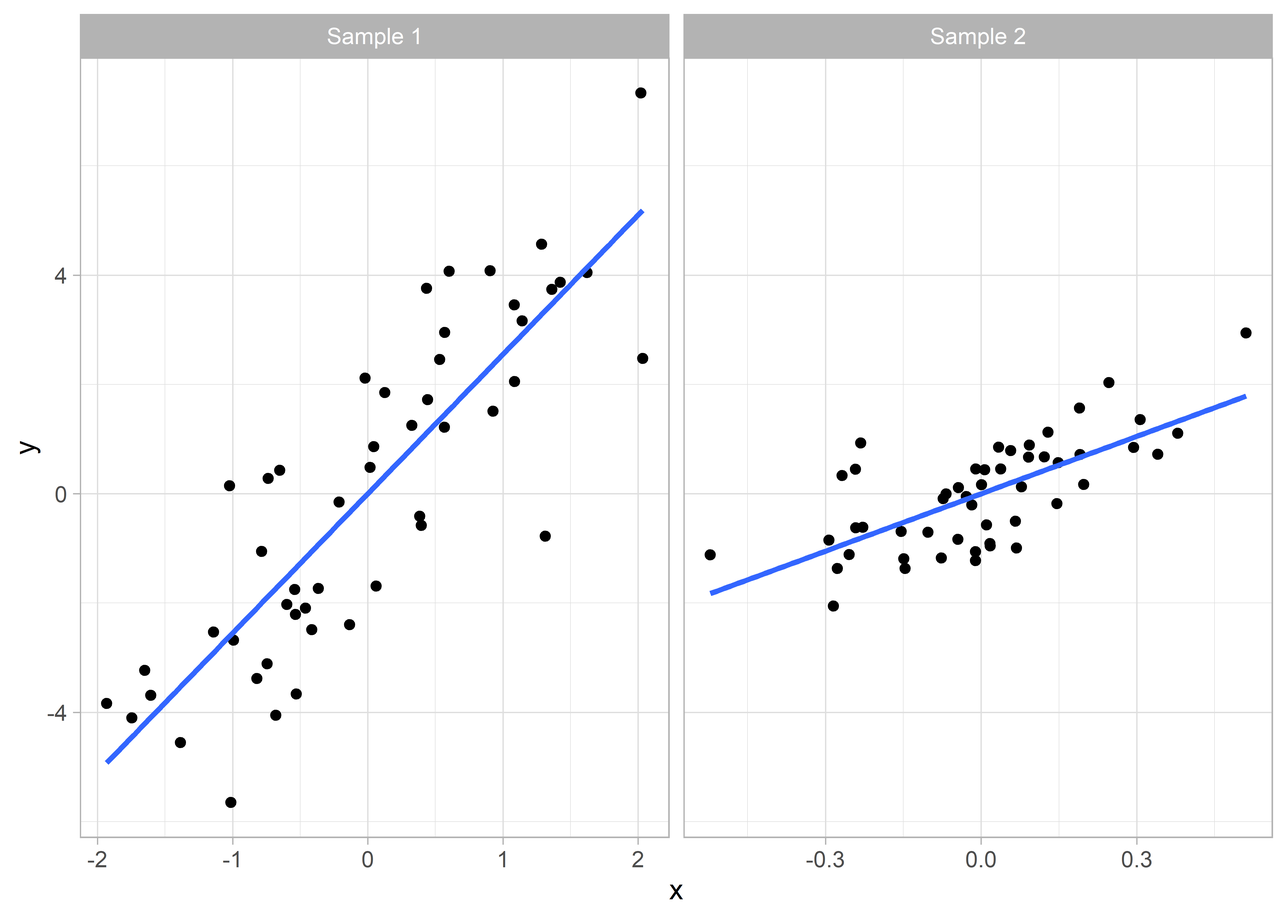
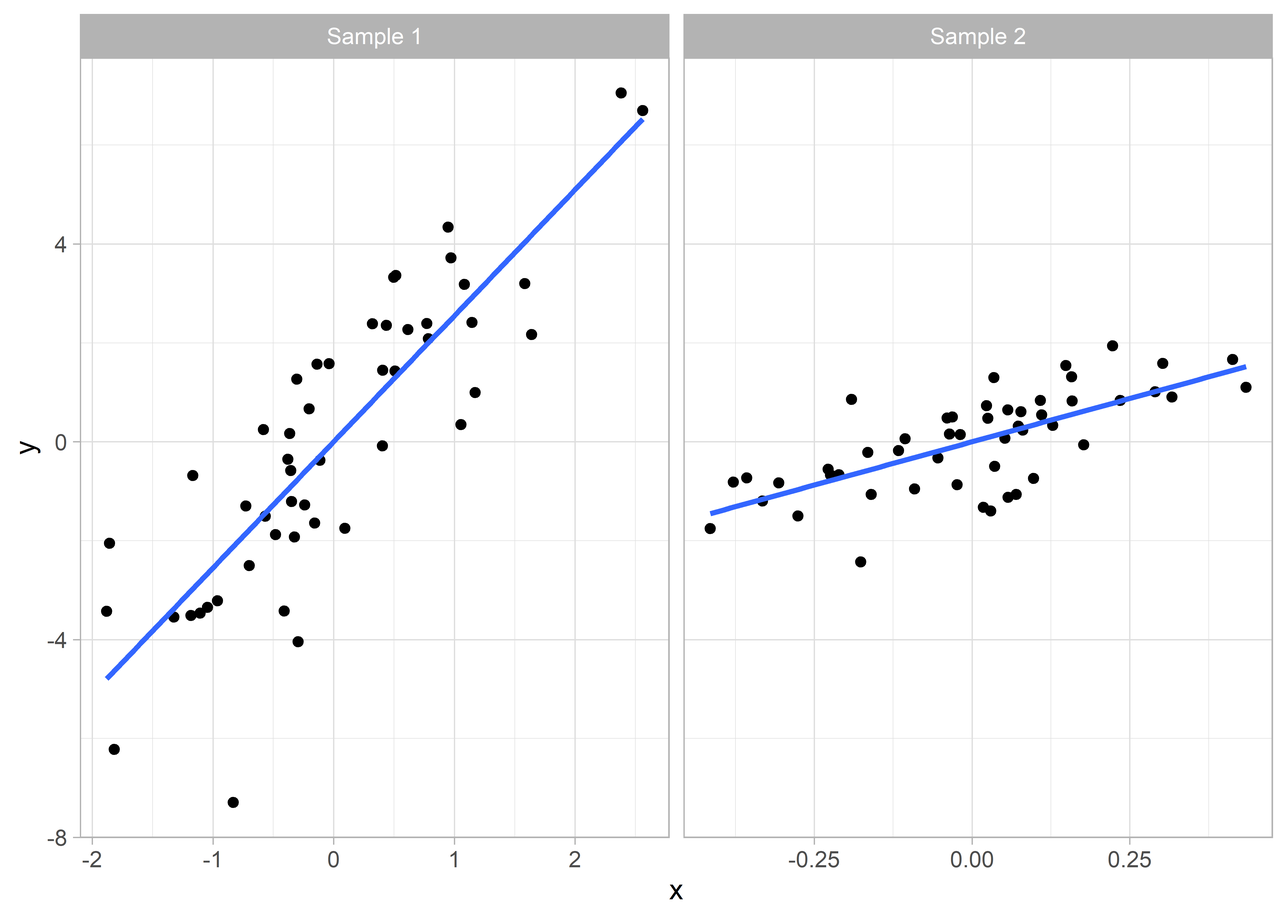
Hide unimportant messages in correlation

diff --git a/docs/korrelation.html b/docs/korrelation.html
@@ -601,10 +601,11 @@ div.tocify {
 <span id="cb4-2"><a href="#cb4-2"></a><span class="st">  </span><span class="kw">select</span>(temperature, swimmers) <span class="op">%&gt;%</span><span class="st"> </span></span>
 <span id="cb4-3"><a href="#cb4-3"></a><span class="st">  </span><span class="kw">get_summary_stats</span>()</span></code></pre></div>
 <pre><code>## # A tibble: 2 x 13
-##   variable        n   min   max median    q1    q3   iqr   mad  mean    sd    se    ci
-##   &lt;chr&gt;       &lt;dbl&gt; &lt;dbl&gt; &lt;dbl&gt;  &lt;dbl&gt; &lt;dbl&gt; &lt;dbl&gt; &lt;dbl&gt; &lt;dbl&gt; &lt;dbl&gt; &lt;dbl&gt; &lt;dbl&gt; &lt;dbl&gt;
-## 1 swimmers      100  34   195     97    82   121   39    28.2  100.  30.0   3.00  5.95
-## 2 temperature   100  11.9  45.6   25.1  21.0  28.9  7.98  6.00  25.0  6.00  0.6   1.19</code></pre>
+##   variable     n   min   max median    q1    q3   iqr   mad  mean    sd    se
+##   &lt;chr&gt;    &lt;dbl&gt; &lt;dbl&gt; &lt;dbl&gt;  &lt;dbl&gt; &lt;dbl&gt; &lt;dbl&gt; &lt;dbl&gt; &lt;dbl&gt; &lt;dbl&gt; &lt;dbl&gt; &lt;dbl&gt;
+## 1 swimmers   100  34   195     97    82   121   39    28.2  100.  30.0   3.00
+## 2 tempera~   100  11.9  45.6   25.1  21.0  28.9  7.98  6.00  25.0  6.00  0.6 
+## # ... with 1 more variable: ci &lt;dbl&gt;</code></pre>
 <p><img src="korrelation_files/figure-html/unnamed-chunk-6-1.png" width="2450" style="display: block; margin: auto;" /></p>
 <p>Eine weitere gute Idee wäre, sich einen vermuteten Zusammenhang graphisch als Streudiagramm darstellen zu lassen. Hier finden wir einen guten linearen Zusammenhang, der genau das nahelegt: Je höher die Temperatur (je weiter man auf der <span class="math inline">\(x\)</span>-Achse nach rechts geht), desto mehr Schwimmer wurden beobachtet (desto höher liegen die Punkte).</p>
 <div class="sourceCode" id="cb6"><pre class="sourceCode r"><code class="sourceCode r"><span id="cb6-1"><a href="#cb6-1"></a>water_park <span class="op">%&gt;%</span><span class="st"> </span></span>
@@ -688,44 +689,10 @@ div.tocify {
 <div id="stärke-eines-zusammenhangs" class="section level2">
 <h2>Stärke eines Zusammenhangs</h2>
 <p>Sehr viele Leute, wenn nicht alle, verwechseln regelmäßig die <em>Stärke</em> eines Zusammenhangs mit der <em>Größe</em> eines Zusammenhangs. Man kann schnell für sich testen, ob man denselben Fehler machen würde. Betrachten wir die beiden folgenden Abbildungen: In welcher ist die Korrelation größer?</p>
-<div class="sourceCode" id="cb17"><pre class="sourceCode r"><code class="sourceCode r"><span id="cb17-1"><a href="#cb17-1"></a>sample_<span class="dv">1</span> &lt;-<span class="st"> </span>MASS<span class="op">::</span><span class="kw">mvrnorm</span>(<span class="dv">50</span>, <span class="dt">mu =</span> <span class="kw">c</span>(<span class="dv">0</span>,<span class="dv">0</span>), <span class="dt">Sigma =</span> <span class="kw">matrix</span>(<span class="kw">c</span>(<span class="dv">1</span>,<span class="fl">0.85</span>,<span class="fl">0.85</span>,<span class="dv">1</span>), <span class="dt">ncol =</span> <span class="dv">2</span>), <span class="dt">empirical =</span> <span class="ot">TRUE</span>) <span class="op">%&gt;%</span><span class="st"> </span></span>
-<span id="cb17-2"><a href="#cb17-2"></a><span class="st">  </span><span class="kw">as_tibble</span>(<span class="dt">.name_repair =</span> <span class="st">&quot;unique&quot;</span>) <span class="op">%&gt;%</span><span class="st"> </span></span>
-<span id="cb17-3"><a href="#cb17-3"></a><span class="st">  </span><span class="kw">rename</span>(<span class="dt">x =</span> <span class="st">&quot;...1&quot;</span>, <span class="dt">y =</span> <span class="st">&quot;...2&quot;</span>) <span class="op">%&gt;%</span><span class="st"> </span></span>
-<span id="cb17-4"><a href="#cb17-4"></a><span class="st">  </span><span class="kw">mutate</span>(<span class="dt">sample =</span> <span class="st">&quot;sample_1&quot;</span>,</span>
-<span id="cb17-5"><a href="#cb17-5"></a>         <span class="dt">y =</span> y <span class="op">*</span><span class="st"> </span><span class="dv">3</span>)</span></code></pre></div>
-<pre><code>## New names:
-## * `` -&gt; ...1
-## * `` -&gt; ...2</code></pre>
-<div class="sourceCode" id="cb19"><pre class="sourceCode r"><code class="sourceCode r"><span id="cb19-1"><a href="#cb19-1"></a>sample_<span class="dv">2</span> &lt;-<span class="st"> </span>MASS<span class="op">::</span><span class="kw">mvrnorm</span>(<span class="dv">50</span>, <span class="dt">mu =</span> <span class="kw">c</span>(<span class="dv">0</span>,<span class="dv">0</span>), <span class="dt">Sigma =</span> <span class="kw">matrix</span>(<span class="kw">c</span>(<span class="dv">1</span>,<span class="fl">0.70</span>,<span class="fl">0.70</span>,<span class="dv">1</span>), <span class="dt">ncol =</span> <span class="dv">2</span>), <span class="dt">empirical =</span> <span class="ot">TRUE</span>) <span class="op">%&gt;%</span><span class="st"> </span></span>
-<span id="cb19-2"><a href="#cb19-2"></a><span class="st">  </span><span class="kw">as_tibble</span>(<span class="dt">.name_repair =</span> <span class="st">&quot;unique&quot;</span>) <span class="op">%&gt;%</span><span class="st"> </span></span>
-<span id="cb19-3"><a href="#cb19-3"></a><span class="st">  </span><span class="kw">rename</span>(<span class="dt">x =</span> <span class="st">&quot;...1&quot;</span>, <span class="dt">y =</span> <span class="st">&quot;...2&quot;</span>) <span class="op">%&gt;%</span><span class="st"> </span></span>
-<span id="cb19-4"><a href="#cb19-4"></a><span class="st">  </span><span class="kw">mutate</span>(<span class="dt">sample =</span> <span class="st">&quot;sample_2&quot;</span>,</span>
-<span id="cb19-5"><a href="#cb19-5"></a>         <span class="dt">x =</span> x <span class="op">*</span><span class="st"> </span><span class="fl">0.2</span>)</span></code></pre></div>
-<pre><code>## New names:
-## * `` -&gt; ...1
-## * `` -&gt; ...2</code></pre>
-<div class="sourceCode" id="cb21"><pre class="sourceCode r"><code class="sourceCode r"><span id="cb21-1"><a href="#cb21-1"></a><span class="kw">bind_rows</span>(sample_<span class="dv">1</span>, sample_<span class="dv">2</span>) <span class="op">%&gt;%</span><span class="st"> </span></span>
-<span id="cb21-2"><a href="#cb21-2"></a><span class="st">  </span><span class="kw">mutate</span>(<span class="dt">sample =</span> <span class="kw">str_to_title</span>(sample), <span class="dt">sample =</span> <span class="kw">str_replace</span>(sample, <span class="dt">pattern =</span> <span class="st">&quot;_&quot;</span>, <span class="dt">replacement =</span> <span class="st">&quot; &quot;</span>)) <span class="op">%&gt;%</span><span class="st"> </span></span>
-<span id="cb21-3"><a href="#cb21-3"></a><span class="st">  </span><span class="kw">ggplot</span>(<span class="kw">aes</span>(x, y)) <span class="op">+</span></span>
-<span id="cb21-4"><a href="#cb21-4"></a><span class="st">  </span><span class="kw">geom_point</span>() <span class="op">+</span></span>
-<span id="cb21-5"><a href="#cb21-5"></a><span class="st">  </span><span class="kw">geom_smooth</span>(<span class="dt">method =</span> <span class="st">&quot;lm&quot;</span>, <span class="dt">se =</span> <span class="ot">FALSE</span>) <span class="op">+</span></span>
-<span id="cb21-6"><a href="#cb21-6"></a><span class="st">  </span><span class="kw">facet_wrap</span>(<span class="op">~</span><span class="st"> </span>sample, <span class="dt">scales =</span> <span class="st">&quot;free_x&quot;</span>)</span></code></pre></div>
-<pre><code>## `geom_smooth()` using formula &#39;y ~ x&#39;</code></pre>
 <p><img src="korrelation_files/figure-html/unnamed-chunk-11-1.png" width="2450" style="display: block; margin: auto;" /></p>
 <p>Wer sich für die linke Seite entschieden hat, ist nicht alleine und liegt gleichzeitig gnadenlos daneben. Die Korrelation ist rechts (<span class="math inline">\(r = .850\)</span>) nämlich deutlich höher als links (<span class="math inline">\(r = .700\)</span>). Trotzdem entscheiden sich viele für die Linke Abbildung. Wieso? Weil sie eben die Stärke der Korrelation, also die Stärke des Zusammenhangs mit der Größe des Zusammenhangs verwechseln.</p>
 <p>Die Stärke eines Zusammenhangs gibt nicht an, wie “steil” die Punkt sind, sondern wie eng sie um eine Linie fallen. Je enger die Punkte um die eingezeichnete Linie fallen, desto größer ist die Korrelation. Wie “steil” die Gerade ist, wie <em>groß</em> also der Zusammenhang zwischen zwei Variablen ist, ist eine Frage, auf die die <strong>Regression</strong> Antworten hat.</p>
 <p>Was folgt daraus? Die Stärke und die Größe eines Zusammenhangs sind voneinander unabhängig und müssen immer einzeln beurteilt werden. Es kann bspw. sein, dass es Zusammenhänge gibt, die total klein, aber extrem stark sind. Hier muss man sich dann die Frage stellen, ob dieser Zusammenhang irgendwelche klinischen/bedeutenden Implikationen mit sich bringt.</p>
-<div class="sourceCode" id="cb23"><pre class="sourceCode r"><code class="sourceCode r"><span id="cb23-1"><a href="#cb23-1"></a>MASS<span class="op">::</span><span class="kw">mvrnorm</span>(<span class="dv">500</span>, <span class="dt">mu =</span> <span class="kw">c</span>(<span class="dv">0</span>,<span class="dv">0</span>), <span class="dt">Sigma =</span> <span class="kw">matrix</span>(<span class="kw">c</span>(<span class="dv">1</span>,<span class="fl">0.90</span>,<span class="fl">0.90</span>,<span class="dv">1</span>), <span class="dt">ncol =</span> <span class="dv">2</span>), <span class="dt">empirical =</span> <span class="ot">TRUE</span>) <span class="op">%&gt;%</span><span class="st"> </span></span>
-<span id="cb23-2"><a href="#cb23-2"></a><span class="st">  </span><span class="kw">as_tibble</span>(<span class="dt">.name_repair =</span> <span class="st">&quot;unique&quot;</span>) <span class="op">%&gt;%</span><span class="st"> </span></span>
-<span id="cb23-3"><a href="#cb23-3"></a><span class="st">  </span><span class="kw">rename</span>(<span class="dt">x =</span> <span class="st">&quot;...1&quot;</span>, <span class="dt">y =</span> <span class="st">&quot;...2&quot;</span>) <span class="op">%&gt;%</span><span class="st"> </span></span>
-<span id="cb23-4"><a href="#cb23-4"></a><span class="st">  </span><span class="kw">mutate</span>(<span class="dt">sample =</span> <span class="st">&quot;sample_1&quot;</span>,</span>
-<span id="cb23-5"><a href="#cb23-5"></a>         <span class="dt">y =</span> y <span class="op">*</span><span class="st"> </span><span class="fl">0.2</span>) <span class="op">%&gt;%</span><span class="st"> </span></span>
-<span id="cb23-6"><a href="#cb23-6"></a><span class="st">  </span><span class="kw">ggplot</span>(<span class="kw">aes</span>(x, y)) <span class="op">+</span></span>
-<span id="cb23-7"><a href="#cb23-7"></a><span class="st">  </span><span class="kw">geom_point</span>() <span class="op">+</span></span>
-<span id="cb23-8"><a href="#cb23-8"></a><span class="st">  </span><span class="kw">expand_limits</span>(<span class="dt">y =</span> <span class="kw">c</span>(<span class="op">-</span><span class="dv">3</span>, <span class="dv">3</span>))</span></code></pre></div>
-<pre><code>## New names:
-## * `` -&gt; ...1
-## * `` -&gt; ...2</code></pre>
 <p><img src="korrelation_files/figure-html/unnamed-chunk-12-1.png" width="2450" style="display: block; margin: auto;" /></p>
 </div>
 <div id="korrelation-und-kausalität" class="section level2">
@@ -738,21 +705,22 @@ div.tocify {
 <div id="klassisch-1" class="section level2">
 <h2>Klassisch</h2>
 <p>Natürlich sind wir nicht darauf beschränkt, uns einzelne Variablen rauszupicken und so einzeln mal eine Korrelation zu berechnen. Wir können das auch über mehrere Variablen gleichzeitig machen. Unser Datensatz <code>water_park</code> enthält vier abhängige Variablen, deren Korrelationen wir uns einmal gleichzeitig anschauen können.</p>
-<div class="sourceCode" id="cb25"><pre class="sourceCode r"><code class="sourceCode r"><span id="cb25-1"><a href="#cb25-1"></a><span class="co"># Deskriptive Statistiken</span></span>
-<span id="cb25-2"><a href="#cb25-2"></a>water_park <span class="op">%&gt;%</span><span class="st"> </span></span>
-<span id="cb25-3"><a href="#cb25-3"></a><span class="st">  </span><span class="kw">select</span>(<span class="op">-</span>day_id) <span class="op">%&gt;%</span><span class="st"> </span></span>
-<span id="cb25-4"><a href="#cb25-4"></a><span class="st">  </span><span class="kw">get_summary_stats</span>()</span></code></pre></div>
+<div class="sourceCode" id="cb17"><pre class="sourceCode r"><code class="sourceCode r"><span id="cb17-1"><a href="#cb17-1"></a><span class="co"># Deskriptive Statistiken</span></span>
+<span id="cb17-2"><a href="#cb17-2"></a>water_park <span class="op">%&gt;%</span><span class="st"> </span></span>
+<span id="cb17-3"><a href="#cb17-3"></a><span class="st">  </span><span class="kw">select</span>(<span class="op">-</span>day_id) <span class="op">%&gt;%</span><span class="st"> </span></span>
+<span id="cb17-4"><a href="#cb17-4"></a><span class="st">  </span><span class="kw">get_summary_stats</span>()</span></code></pre></div>
 <pre><code>## # A tibble: 4 x 13
-##   variable        n   min    max median     q1     q3    iqr    mad    mean     sd     se     ci
-##   &lt;chr&gt;       &lt;dbl&gt; &lt;dbl&gt;  &lt;dbl&gt;  &lt;dbl&gt;  &lt;dbl&gt;  &lt;dbl&gt;  &lt;dbl&gt;  &lt;dbl&gt;   &lt;dbl&gt;  &lt;dbl&gt;  &lt;dbl&gt;  &lt;dbl&gt;
-## 1 beatings      100   1     11      5      4      6     2      1.48    5.01   2.02  0.202  0.401
-## 2 sales         100 410   2837   1476   1156.  1861.  706.   554.   1500.   500.   50     99.2  
-## 3 swimmers      100  34    195     97     82    121    39     28.2   100.    30.0   3.00   5.95 
-## 4 temperature   100  11.9   45.6   25.1   21.0   28.9   7.98   6.00   25.0    6.00  0.6    1.19</code></pre>
-<div class="sourceCode" id="cb27"><pre class="sourceCode r"><code class="sourceCode r"><span id="cb27-1"><a href="#cb27-1"></a><span class="co"># Korrelationen</span></span>
-<span id="cb27-2"><a href="#cb27-2"></a>water_park <span class="op">%&gt;%</span><span class="st"> </span></span>
-<span id="cb27-3"><a href="#cb27-3"></a><span class="st">  </span><span class="kw">select</span>(<span class="op">-</span>day_id) <span class="op">%&gt;%</span><span class="st"> </span></span>
-<span id="cb27-4"><a href="#cb27-4"></a><span class="st">  </span><span class="kw">cor_mat</span>()</span></code></pre></div>
+##   variable     n   min    max median     q1     q3    iqr    mad   mean     sd
+##   &lt;chr&gt;    &lt;dbl&gt; &lt;dbl&gt;  &lt;dbl&gt;  &lt;dbl&gt;  &lt;dbl&gt;  &lt;dbl&gt;  &lt;dbl&gt;  &lt;dbl&gt;  &lt;dbl&gt;  &lt;dbl&gt;
+## 1 beatings   100   1     11      5      4      6     2      1.48 5.01e0   2.02
+## 2 sales      100 410   2837   1476   1156.  1861.  706.   554.   1.50e3 500.  
+## 3 swimmers   100  34    195     97     82    121    39     28.2  1.00e2  30.0 
+## 4 tempera~   100  11.9   45.6   25.1   21.0   28.9   7.98   6.00 2.50e1   6.00
+## # ... with 2 more variables: se &lt;dbl&gt;, ci &lt;dbl&gt;</code></pre>
+<div class="sourceCode" id="cb19"><pre class="sourceCode r"><code class="sourceCode r"><span id="cb19-1"><a href="#cb19-1"></a><span class="co"># Korrelationen</span></span>
+<span id="cb19-2"><a href="#cb19-2"></a>water_park <span class="op">%&gt;%</span><span class="st"> </span></span>
+<span id="cb19-3"><a href="#cb19-3"></a><span class="st">  </span><span class="kw">select</span>(<span class="op">-</span>day_id) <span class="op">%&gt;%</span><span class="st"> </span></span>
+<span id="cb19-4"><a href="#cb19-4"></a><span class="st">  </span><span class="kw">cor_mat</span>()</span></code></pre></div>
 <pre><code>## # A tibble: 4 x 5
 ##   rowname     temperature swimmers sales beatings
 ## * &lt;chr&gt;             &lt;dbl&gt;    &lt;dbl&gt; &lt;dbl&gt;    &lt;dbl&gt;
@@ -761,10 +729,10 @@ div.tocify {
 ## 3 sales              0.79     0.95  1        0.7 
 ## 4 beatings           0.75     0.8   0.7      1</code></pre>
 <p>Um nun beurteilen zu können, ob diese Zusammenhänge statistisch signifikant sind, können wir die Funktion <code>cor_get_pval()</code> anhängen und erhalten die korrespondierenen <span class="math inline">\(p\)</span>-Werte der eben erstellten Korrelationen.</p>
-<div class="sourceCode" id="cb29"><pre class="sourceCode r"><code class="sourceCode r"><span id="cb29-1"><a href="#cb29-1"></a>water_park <span class="op">%&gt;%</span><span class="st"> </span></span>
-<span id="cb29-2"><a href="#cb29-2"></a><span class="st">  </span><span class="kw">select</span>(<span class="op">-</span>day_id) <span class="op">%&gt;%</span><span class="st"> </span></span>
-<span id="cb29-3"><a href="#cb29-3"></a><span class="st">  </span><span class="kw">cor_mat</span>() <span class="op">%&gt;%</span><span class="st"> </span></span>
-<span id="cb29-4"><a href="#cb29-4"></a><span class="st">  </span><span class="kw">cor_get_pval</span>()</span></code></pre></div>
+<div class="sourceCode" id="cb21"><pre class="sourceCode r"><code class="sourceCode r"><span id="cb21-1"><a href="#cb21-1"></a>water_park <span class="op">%&gt;%</span><span class="st"> </span></span>
+<span id="cb21-2"><a href="#cb21-2"></a><span class="st">  </span><span class="kw">select</span>(<span class="op">-</span>day_id) <span class="op">%&gt;%</span><span class="st"> </span></span>
+<span id="cb21-3"><a href="#cb21-3"></a><span class="st">  </span><span class="kw">cor_mat</span>() <span class="op">%&gt;%</span><span class="st"> </span></span>
+<span id="cb21-4"><a href="#cb21-4"></a><span class="st">  </span><span class="kw">cor_get_pval</span>()</span></code></pre></div>
 <pre><code>## # A tibble: 4 x 5
 ##   rowname     temperature swimmers    sales beatings
 ##   &lt;chr&gt;             &lt;dbl&gt;    &lt;dbl&gt;    &lt;dbl&gt;    &lt;dbl&gt;
@@ -773,21 +741,23 @@ div.tocify {
 ## 3 sales          1.58e-22 1.76e-51 0.       5.36e-16
 ## 4 beatings       4.99e-19 2.25e-23 5.36e-16 0.</code></pre>
 <p>Bei insgesamt vier Variablen haben wir noch einen guten Überblick, aber mit wachsendem Datensatz kann dieser Überblick schnell verloren gehen. Eine gute Möglichkeit, sich viele Korrelationen auf einmal anzuschauen liefert ein <strong>Korrelogramm</strong>, das wir mit dem Paket <code>corrgram</code> erstellen können.</p>
-<div class="sourceCode" id="cb31"><pre class="sourceCode r"><code class="sourceCode r"><span id="cb31-1"><a href="#cb31-1"></a><span class="kw">library</span>(corrgram)</span>
-<span id="cb31-2"><a href="#cb31-2"></a></span>
-<span id="cb31-3"><a href="#cb31-3"></a>outcomes &lt;-<span class="st"> </span>water_park <span class="op">%&gt;%</span><span class="st"> </span></span>
-<span id="cb31-4"><a href="#cb31-4"></a><span class="st">  </span><span class="kw">select</span>(<span class="op">-</span>day_id) <span class="op">%&gt;%</span><span class="st"> </span></span>
-<span id="cb31-5"><a href="#cb31-5"></a><span class="st">  </span><span class="kw">corrgram</span>(<span class="dt">upper.panel =</span> panel.conf,</span>
-<span id="cb31-6"><a href="#cb31-6"></a>           <span class="dt">diag.panel =</span> panel.density)</span></code></pre></div>
+<div class="sourceCode" id="cb23"><pre class="sourceCode r"><code class="sourceCode r"><span id="cb23-1"><a href="#cb23-1"></a><span class="kw">library</span>(corrgram)</span></code></pre></div>
+<pre><code>## Registered S3 method overwritten by &#39;seriation&#39;:
+##   method         from 
+##   reorder.hclust gclus</code></pre>
+<div class="sourceCode" id="cb25"><pre class="sourceCode r"><code class="sourceCode r"><span id="cb25-1"><a href="#cb25-1"></a>outcomes &lt;-<span class="st"> </span>water_park <span class="op">%&gt;%</span><span class="st"> </span></span>
+<span id="cb25-2"><a href="#cb25-2"></a><span class="st">  </span><span class="kw">select</span>(<span class="op">-</span>day_id) <span class="op">%&gt;%</span><span class="st"> </span></span>
+<span id="cb25-3"><a href="#cb25-3"></a><span class="st">  </span><span class="kw">corrgram</span>(<span class="dt">upper.panel =</span> panel.conf,</span>
+<span id="cb25-4"><a href="#cb25-4"></a>           <span class="dt">diag.panel =</span> panel.density)</span></code></pre></div>
 <p><img src="korrelation_files/figure-html/unnamed-chunk-15-1.png" width="2450" style="display: block; margin: auto;" /></p>
 <p>Interessant ist, dass alle Variablen miteinander positiv korrelieren. Und auch hier müssen wir ganz klar in unserer Interpretation sein. Die Variablen hängen zusammen, aber verursachen sich nicht kausal. Denn letzteres würde bedeuten, dass höhere Temperaturen zu mehr Schlägereien führten, höhere Verkaufs-Umsetze des Kiosks zu höheren Temperaturen, oder mehr Schlägereien zu höheren Tages-Umsetzen. Das macht alles nicht wirklich Sinn, und daran kann man gut erkennen, dass Korrelationen keine Kausalitäten liefern.</p>
 </div>
 <div id="robust-1" class="section level2">
 <h2>Robust</h2>
 <p>Für <em>percentage bend correlations</em> nutzen wir <code>pball()</code>, für Korrelationen basierend auf winsorized Daten <code>winall()</code>.</p>
-<div class="sourceCode" id="cb32"><pre class="sourceCode r"><code class="sourceCode r"><span id="cb32-1"><a href="#cb32-1"></a>water_park <span class="op">%&gt;%</span><span class="st"> </span></span>
-<span id="cb32-2"><a href="#cb32-2"></a><span class="st">  </span><span class="kw">select</span>(<span class="op">-</span>day_id) <span class="op">%&gt;%</span><span class="st"> </span></span>
-<span id="cb32-3"><a href="#cb32-3"></a><span class="st">  </span><span class="kw">pball</span>()</span></code></pre></div>
+<div class="sourceCode" id="cb26"><pre class="sourceCode r"><code class="sourceCode r"><span id="cb26-1"><a href="#cb26-1"></a>water_park <span class="op">%&gt;%</span><span class="st"> </span></span>
+<span id="cb26-2"><a href="#cb26-2"></a><span class="st">  </span><span class="kw">select</span>(<span class="op">-</span>day_id) <span class="op">%&gt;%</span><span class="st"> </span></span>
+<span id="cb26-3"><a href="#cb26-3"></a><span class="st">  </span><span class="kw">pball</span>()</span></code></pre></div>
 <pre><code>## Call:
 ## pball(x = .)
 ## 
@@ -807,9 +777,9 @@ div.tocify {
 ## 
 ## 
 ## Test statistic H: Inf, p-value = 0</code></pre>
-<div class="sourceCode" id="cb34"><pre class="sourceCode r"><code class="sourceCode r"><span id="cb34-1"><a href="#cb34-1"></a>water_park <span class="op">%&gt;%</span><span class="st"> </span></span>
-<span id="cb34-2"><a href="#cb34-2"></a><span class="st">  </span><span class="kw">select</span>(<span class="op">-</span>day_id) <span class="op">%&gt;%</span><span class="st"> </span></span>
-<span id="cb34-3"><a href="#cb34-3"></a><span class="st">  </span><span class="kw">winall</span>()</span></code></pre></div>
+<div class="sourceCode" id="cb28"><pre class="sourceCode r"><code class="sourceCode r"><span id="cb28-1"><a href="#cb28-1"></a>water_park <span class="op">%&gt;%</span><span class="st"> </span></span>
+<span id="cb28-2"><a href="#cb28-2"></a><span class="st">  </span><span class="kw">select</span>(<span class="op">-</span>day_id) <span class="op">%&gt;%</span><span class="st"> </span></span>
+<span id="cb28-3"><a href="#cb28-3"></a><span class="st">  </span><span class="kw">winall</span>()</span></code></pre></div>
 <pre><code>## Call:
 ## winall(x = .)
 ## 
@@ -830,10 +800,10 @@ div.tocify {
 <div id="non-parametrisch-1" class="section level2">
 <h2>Non-parametrisch</h2>
 <p>Für non-parametrische Tests, von deren Verwendung hier im Zuge der zur Verfügung stehenden robusten Tests wieder entschieden abgeraten wird, gehen wir genau so wie bei der parametrischen Variante vor, aber geben auch hier wieder eine andere Methode als Funktions-Argument mit.</p>
-<div class="sourceCode" id="cb36"><pre class="sourceCode r"><code class="sourceCode r"><span id="cb36-1"><a href="#cb36-1"></a><span class="co"># Spearmans r</span></span>
-<span id="cb36-2"><a href="#cb36-2"></a>water_park <span class="op">%&gt;%</span><span class="st"> </span></span>
-<span id="cb36-3"><a href="#cb36-3"></a><span class="st">  </span><span class="kw">select</span>(<span class="op">-</span>day_id) <span class="op">%&gt;%</span><span class="st"> </span></span>
-<span id="cb36-4"><a href="#cb36-4"></a><span class="st">  </span><span class="kw">cor_mat</span>(<span class="dt">method =</span> <span class="st">&quot;spearman&quot;</span>)</span></code></pre></div>
+<div class="sourceCode" id="cb30"><pre class="sourceCode r"><code class="sourceCode r"><span id="cb30-1"><a href="#cb30-1"></a><span class="co"># Spearmans r</span></span>
+<span id="cb30-2"><a href="#cb30-2"></a>water_park <span class="op">%&gt;%</span><span class="st"> </span></span>
+<span id="cb30-3"><a href="#cb30-3"></a><span class="st">  </span><span class="kw">select</span>(<span class="op">-</span>day_id) <span class="op">%&gt;%</span><span class="st"> </span></span>
+<span id="cb30-4"><a href="#cb30-4"></a><span class="st">  </span><span class="kw">cor_mat</span>(<span class="dt">method =</span> <span class="st">&quot;spearman&quot;</span>)</span></code></pre></div>
 <pre><code>## # A tibble: 4 x 5
 ##   rowname     temperature swimmers sales beatings
 ## * &lt;chr&gt;             &lt;dbl&gt;    &lt;dbl&gt; &lt;dbl&gt;    &lt;dbl&gt;
@@ -841,10 +811,10 @@ div.tocify {
 ## 2 swimmers           0.82     1     0.95     0.75
 ## 3 sales              0.75     0.95  1        0.66
 ## 4 beatings           0.7      0.75  0.66     1</code></pre>
-<div class="sourceCode" id="cb38"><pre class="sourceCode r"><code class="sourceCode r"><span id="cb38-1"><a href="#cb38-1"></a>water_park <span class="op">%&gt;%</span><span class="st"> </span></span>
-<span id="cb38-2"><a href="#cb38-2"></a><span class="st">  </span><span class="kw">select</span>(<span class="op">-</span>day_id) <span class="op">%&gt;%</span><span class="st"> </span></span>
-<span id="cb38-3"><a href="#cb38-3"></a><span class="st">  </span><span class="kw">cor_mat</span>(<span class="dt">method =</span> <span class="st">&quot;spearman&quot;</span>) <span class="op">%&gt;%</span><span class="st"> </span></span>
-<span id="cb38-4"><a href="#cb38-4"></a><span class="st">  </span><span class="kw">cor_get_pval</span>()</span></code></pre></div>
+<div class="sourceCode" id="cb32"><pre class="sourceCode r"><code class="sourceCode r"><span id="cb32-1"><a href="#cb32-1"></a>water_park <span class="op">%&gt;%</span><span class="st"> </span></span>
+<span id="cb32-2"><a href="#cb32-2"></a><span class="st">  </span><span class="kw">select</span>(<span class="op">-</span>day_id) <span class="op">%&gt;%</span><span class="st"> </span></span>
+<span id="cb32-3"><a href="#cb32-3"></a><span class="st">  </span><span class="kw">cor_mat</span>(<span class="dt">method =</span> <span class="st">&quot;spearman&quot;</span>) <span class="op">%&gt;%</span><span class="st"> </span></span>
+<span id="cb32-4"><a href="#cb32-4"></a><span class="st">  </span><span class="kw">cor_get_pval</span>()</span></code></pre></div>
 <pre><code>## # A tibble: 4 x 5
 ##   rowname     temperature swimmers    sales beatings
 ##   &lt;chr&gt;             &lt;dbl&gt;    &lt;dbl&gt;    &lt;dbl&gt;    &lt;dbl&gt;
@@ -852,10 +822,10 @@ div.tocify {
 ## 2 swimmers       6.43e-26 0.       1.37e-49 4.62e-19
 ## 3 sales          2.36e-19 1.37e-49 0.       8.92e-14
 ## 4 beatings       1.02e-15 4.62e-19 8.92e-14 0.</code></pre>
-<div class="sourceCode" id="cb40"><pre class="sourceCode r"><code class="sourceCode r"><span id="cb40-1"><a href="#cb40-1"></a><span class="co"># Kendalls Tau</span></span>
-<span id="cb40-2"><a href="#cb40-2"></a>water_park <span class="op">%&gt;%</span><span class="st"> </span></span>
-<span id="cb40-3"><a href="#cb40-3"></a><span class="st">  </span><span class="kw">select</span>(<span class="op">-</span>day_id) <span class="op">%&gt;%</span><span class="st"> </span></span>
-<span id="cb40-4"><a href="#cb40-4"></a><span class="st">  </span><span class="kw">cor_mat</span>(<span class="dt">method =</span> <span class="st">&quot;kendall&quot;</span>)</span></code></pre></div>
+<div class="sourceCode" id="cb34"><pre class="sourceCode r"><code class="sourceCode r"><span id="cb34-1"><a href="#cb34-1"></a><span class="co"># Kendalls Tau</span></span>
+<span id="cb34-2"><a href="#cb34-2"></a>water_park <span class="op">%&gt;%</span><span class="st"> </span></span>
+<span id="cb34-3"><a href="#cb34-3"></a><span class="st">  </span><span class="kw">select</span>(<span class="op">-</span>day_id) <span class="op">%&gt;%</span><span class="st"> </span></span>
+<span id="cb34-4"><a href="#cb34-4"></a><span class="st">  </span><span class="kw">cor_mat</span>(<span class="dt">method =</span> <span class="st">&quot;kendall&quot;</span>)</span></code></pre></div>
 <pre><code>## # A tibble: 4 x 5
 ##   rowname     temperature swimmers sales beatings
 ## * &lt;chr&gt;             &lt;dbl&gt;    &lt;dbl&gt; &lt;dbl&gt;    &lt;dbl&gt;
@@ -863,10 +833,10 @@ div.tocify {
 ## 2 swimmers          0.65      1    0.81      0.6 
 ## 3 sales             0.570     0.81 1         0.51
 ## 4 beatings          0.55      0.6  0.51      1</code></pre>
-<div class="sourceCode" id="cb42"><pre class="sourceCode r"><code class="sourceCode r"><span id="cb42-1"><a href="#cb42-1"></a>water_park <span class="op">%&gt;%</span><span class="st"> </span></span>
-<span id="cb42-2"><a href="#cb42-2"></a><span class="st">  </span><span class="kw">select</span>(<span class="op">-</span>day_id) <span class="op">%&gt;%</span><span class="st"> </span></span>
-<span id="cb42-3"><a href="#cb42-3"></a><span class="st">  </span><span class="kw">cor_mat</span>(<span class="dt">method =</span> <span class="st">&quot;kendall&quot;</span>) <span class="op">%&gt;%</span><span class="st"> </span></span>
-<span id="cb42-4"><a href="#cb42-4"></a><span class="st">  </span><span class="kw">cor_get_pval</span>()</span></code></pre></div>
+<div class="sourceCode" id="cb36"><pre class="sourceCode r"><code class="sourceCode r"><span id="cb36-1"><a href="#cb36-1"></a>water_park <span class="op">%&gt;%</span><span class="st"> </span></span>
+<span id="cb36-2"><a href="#cb36-2"></a><span class="st">  </span><span class="kw">select</span>(<span class="op">-</span>day_id) <span class="op">%&gt;%</span><span class="st"> </span></span>
+<span id="cb36-3"><a href="#cb36-3"></a><span class="st">  </span><span class="kw">cor_mat</span>(<span class="dt">method =</span> <span class="st">&quot;kendall&quot;</span>) <span class="op">%&gt;%</span><span class="st"> </span></span>
+<span id="cb36-4"><a href="#cb36-4"></a><span class="st">  </span><span class="kw">cor_get_pval</span>()</span></code></pre></div>
 <pre><code>## # A tibble: 4 x 5
 ##   rowname     temperature swimmers    sales beatings
 ##   &lt;chr&gt;             &lt;dbl&gt;    &lt;dbl&gt;    &lt;dbl&gt;    &lt;dbl&gt;
